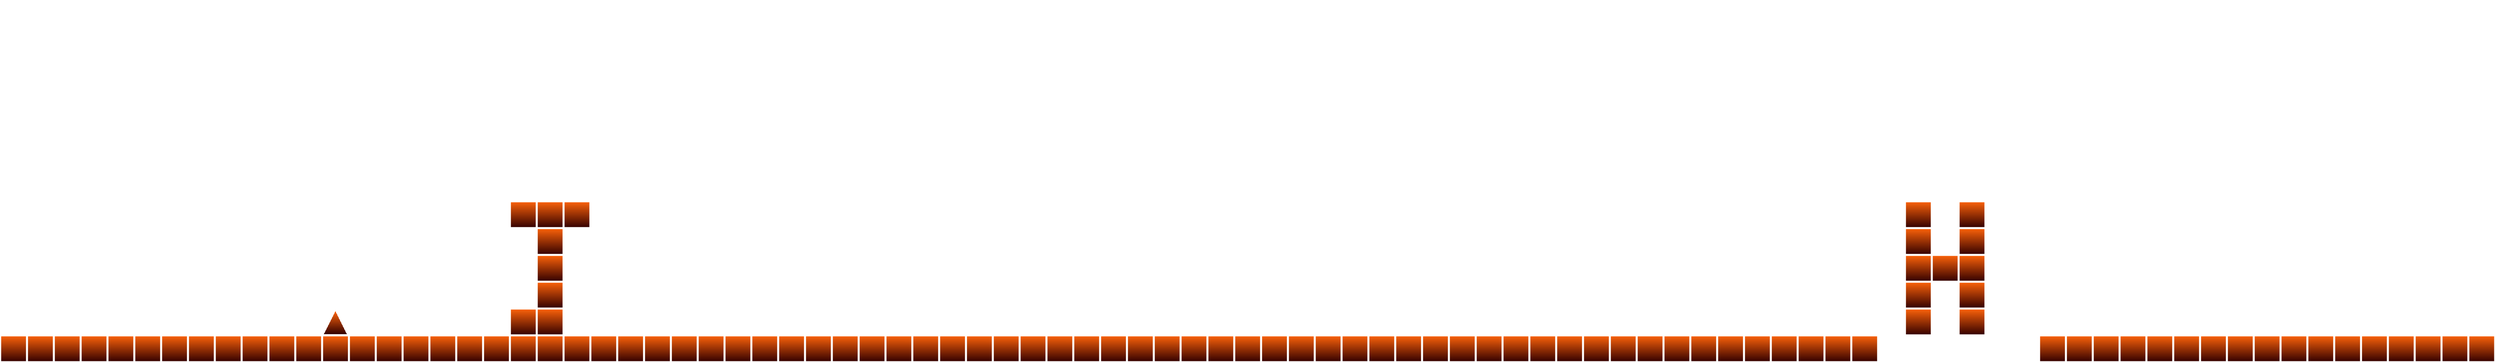
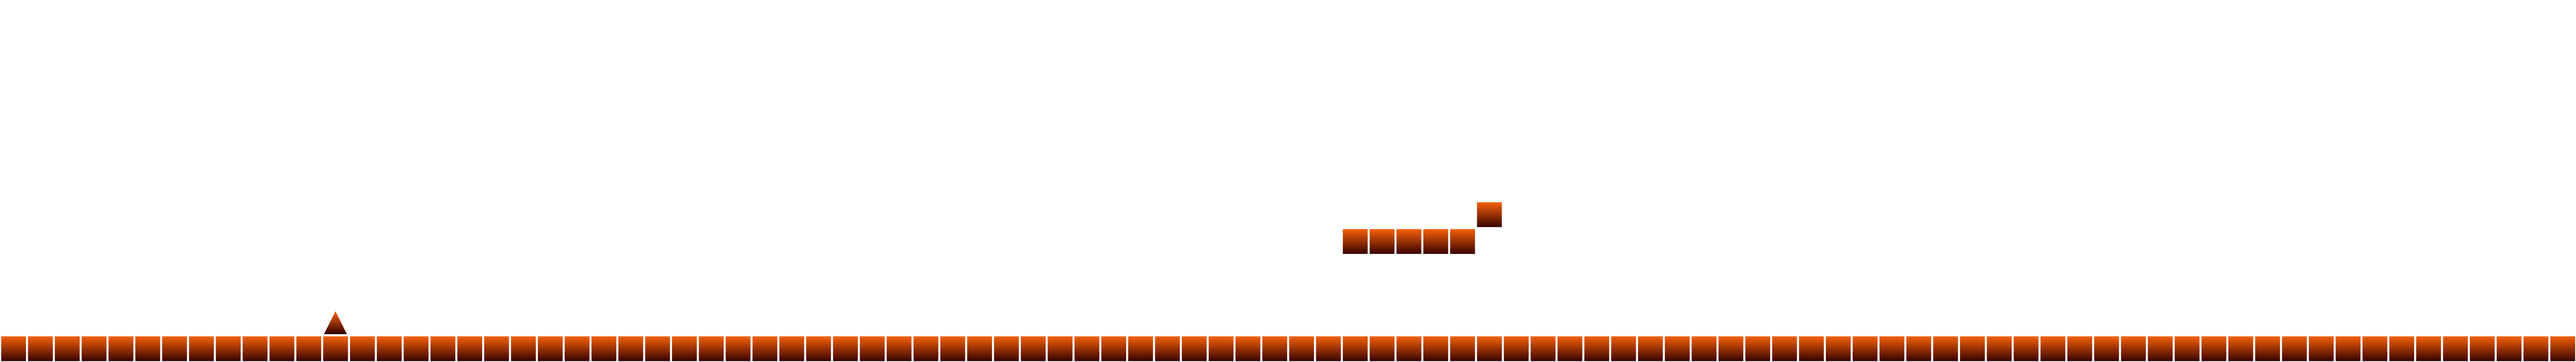
CompletionPane shows when the level is 100%

diff --git a/src/panes/LevelGameplayPane.java b/src/panes/LevelGameplayPane.java
@@ -37,6 +37,9 @@ public class LevelGameplayPane extends GraphicsPane {
     // Death menu
     private DeathMenuPane deathMenu;
     private boolean showingDeathScreen = false;
+    private CompletionPane completionMenu;
+    private boolean showingCompletionScreen = false;
+    boolean isProgressSaved = false;
 
     @Override
     public void showContent() {
@@ -49,6 +52,10 @@ public class LevelGameplayPane extends GraphicsPane {
             deathMenu.hide();
         }
         showingDeathScreen = false;
+        if (completionMenu != null && completionMenu.isVisible()) {
+            completionMenu.hide();
+        }
+        showingCompletionScreen = false;
         paused = false;
         contents.clear();
         mainScreen.clear();
@@ -77,6 +84,7 @@ public class LevelGameplayPane extends GraphicsPane {
         progressBarPercentage.setColor(Color.WHITE);
         this.mainScreen = mainApplication;
         this.deathMenu = new DeathMenuPane(mainApplication);
+        this.completionMenu = new CompletionPane(mainApplication);
     }
 
     public GameLevel getCurrentLevel() {
@@ -175,9 +183,12 @@ public class LevelGameplayPane extends GraphicsPane {
             player.tick(dtSeconds);
 
             // Check for death
-            if (player.isDead()) {
+            if (player.isDead() && !showingCompletionScreen) {
                 showDeathScreen();
                 return;
+            }
+            if (this.player.getXPos() > this.currentLevel.getGeometry()[0].length && !showingDeathScreen) {
+                showCompletion();
             }
         }
 
@@ -190,13 +201,30 @@ public class LevelGameplayPane extends GraphicsPane {
     private void showDeathScreen() {
         showingDeathScreen = true;
         paused = true;
-        
-        SaveData.save(new level.GameLevel[]{
-                level.GameLevel.TEST_LEVEL,
-                level.GameLevel.TEST_LEVEL_2
+
+        if (!isProgressSaved) {
+            SaveData.save(new level.GameLevel[]{
+                    level.GameLevel.TEST_LEVEL,
+                    level.GameLevel.TEST_LEVEL_2
             });
+            isProgressSaved = true;
+        }
         deathMenu.show();
     }
+
+    private void showCompletion() {
+        showingCompletionScreen = true;
+
+        if (!isProgressSaved) {
+            SaveData.save(new level.GameLevel[]{
+                    level.GameLevel.TEST_LEVEL,
+                    level.GameLevel.TEST_LEVEL_2
+            });
+            isProgressSaved = true;
+        }
+        completionMenu.show();
+    }
+
 
     /**
      * Restarts the current level.
@@ -204,6 +232,10 @@ public class LevelGameplayPane extends GraphicsPane {
     private void restartLevel() {
         deathMenu.hide();
         showingDeathScreen = false;
+
+        completionMenu.hide();
+        showingCompletionScreen = false;
+        isProgressSaved = false;
         paused = false;
 
         // Remove old sprite
@@ -229,12 +261,14 @@ public class LevelGameplayPane extends GraphicsPane {
     private void goToLevelSelect() {
         deathMenu.hide();
         showingDeathScreen = false;
+        completionMenu.hide();
+        showingCompletionScreen = false;
         paused = false;
         mainScreen.switchToLevelSelectScreen();
     }
 
     public void pauseUnpause() {
-        if (showingDeathScreen) return; // Don't toggle pause while death menu is open
+        if (showingDeathScreen || showingCompletionScreen) return; // Don't toggle pause while death menu is open
         if (!paused) {
             paused = true;
             pauseTimestamp = mainScreen.getDelta();
@@ -248,13 +282,13 @@ public class LevelGameplayPane extends GraphicsPane {
     @Override
     public void keyPressed(KeyEvent e) {
         if (e.getKeyCode() == KeyEvent.VK_ESCAPE) {
-            if (showingDeathScreen) {
+            if (showingDeathScreen || showingCompletionScreen) {
                 goToLevelSelect(); // ESC on death menu goes back to level select
             } else {
                 pauseUnpause();
             }
         } else if (e.getKeyCode() == KeyEvent.VK_SPACE || e.getKeyCode() == KeyEvent.VK_UP) {
-            if (showingDeathScreen) {
+            if (showingDeathScreen || showingCompletionScreen) {
                 restartLevel(); // Space/Up on death menu replays
             } else if (!paused && player != null) {
                 player.jump();
@@ -267,6 +301,16 @@ public class LevelGameplayPane extends GraphicsPane {
     public void mouseClicked(MouseEvent e) {
         if (showingDeathScreen && deathMenu.isVisible()) {
             String action = deathMenu.mouseClicked(e);
+            if ("replay".equals(action)) {
+                restartLevel();
+            } else if ("levelselect".equals(action)) {
+                goToLevelSelect();
+            }
+            return; // Consume click while death menu is open
+        }
+
+        if (showingCompletionScreen && completionMenu.isVisible()) {
+            String action = completionMenu.mouseClicked(e);
             if ("replay".equals(action)) {
                 restartLevel();
             } else if ("levelselect".equals(action)) {

diff --git a/src/panes/CompletionPane.java b/src/panes/CompletionPane.java
@@ -1,0 +1,153 @@
+package panes;
+
+import acm.graphics.GLabel;
+import acm.graphics.GObject;
+import acm.graphics.GRect;
+
+import java.awt.*;
+import java.awt.event.MouseEvent;
+import java.util.ArrayList;
+
+public class CompletionPane {
+
+    private MainApplication mainScreen;
+    private ArrayList<GObject> elements = new ArrayList<>();
+
+    // Buttons
+    private GRect replayButton;
+    private GLabel replayLabel;
+    private GRect levelSelectButton;
+    private GLabel levelSelectLabel;
+
+    private boolean visible = false;
+
+    public CompletionPane(MainApplication mainScreen) {
+        this.mainScreen = mainScreen;
+    }
+
+    public boolean isVisible() {
+        return visible;
+    }
+
+    /**
+     * Shows the death menu overlay on screen.
+     */
+    public void show() {
+        visible = true;
+
+        double screenW = mainScreen.getWidth();
+        double screenH = mainScreen.getHeight();
+
+        // Semi-transparent dark overlay
+        GRect overlay = new GRect(0, 0, screenW, screenH);
+        overlay.setFilled(true);
+        overlay.setFillColor(new Color(0, 0, 0, 150));
+//        addElement(overlay);
+
+        // Menu box
+        double boxW = 500;
+        double boxH = 380;
+        double boxX = (screenW - boxW) / 2;
+        double boxY = (screenH - boxH) / 2;
+
+        // Box shadow for depth
+        GRect boxShadow = new GRect(boxX + 5, boxY + 5, boxW, boxH);
+        boxShadow.setFilled(true);
+        boxShadow.setFillColor(new Color(0, 0, 0, 80));
+        addElement(boxShadow);
+
+        // Main box
+        GRect menuBox = new GRect(boxX, boxY, boxW, boxH);
+        menuBox.setFilled(true);
+        menuBox.setFillColor(new Color(0, 50, 120));
+        menuBox.setColor(Color.WHITE);
+        addElement(menuBox);
+
+        // "GAME OVER" title
+        GLabel title = new GLabel("LEVEL COMPLETE!");
+        title.setFont(new Font("Comic Sans MS", Font.BOLD, 52));
+        title.setColor(new Color(80, 255, 80));
+        title.setLocation((screenW - title.getWidth()) / 2, boxY + 75);
+        addElement(title);
+
+        // Subtitle
+        GLabel subtitle = new GLabel("Better luck next time!");
+        subtitle.setFont(new Font("Comic Sans MS", Font.PLAIN, 22));
+        subtitle.setColor(new Color(200, 220, 255));
+        subtitle.setLocation((screenW - subtitle.getWidth()) / 2, boxY + 115);
+        addElement(subtitle);
+
+        // --- Replay Button ---
+        double btnW = 320;
+        double btnH = 60;
+        double btnX = (screenW - btnW) / 2;
+        double replayY = boxY + 150;
+
+        replayButton = new GRect(btnX, replayY, btnW, btnH);
+        replayButton.setFilled(true);
+        replayButton.setFillColor(new Color(46, 204, 113));
+        replayButton.setColor(new Color(36, 170, 90));
+        addElement(replayButton);
+
+        replayLabel = new GLabel("REPLAY");
+        replayLabel.setFont(new Font("Comic Sans MS", Font.BOLD, 30));
+        replayLabel.setColor(Color.WHITE);
+        replayLabel.setLocation(
+                btnX + (btnW - replayLabel.getWidth()) / 2,
+                replayY + (btnH + replayLabel.getAscent()) / 2 - 5
+        );
+        addElement(replayLabel);
+
+        // --- Level Select Button ---
+        double levelSelectY = replayY + btnH + 25;
+
+        levelSelectButton = new GRect(btnX, levelSelectY, btnW, btnH);
+        levelSelectButton.setFilled(true);
+        levelSelectButton.setFillColor(new Color(0, 102, 204));
+        levelSelectButton.setColor(new Color(0, 75, 160));
+        addElement(levelSelectButton);
+
+        levelSelectLabel = new GLabel("LEVEL SELECT");
+        levelSelectLabel.setFont(new Font("Comic Sans MS", Font.BOLD, 30));
+        levelSelectLabel.setColor(Color.WHITE);
+        levelSelectLabel.setLocation(
+                btnX + (btnW - levelSelectLabel.getWidth()) / 2,
+                levelSelectY + (btnH + levelSelectLabel.getAscent()) / 2 - 5
+        );
+        addElement(levelSelectLabel);
+    }
+
+    /**
+     * Hides the death menu and removes all elements from screen.
+     */
+    public void hide() {
+        for (GObject item : elements) {
+            mainScreen.remove(item);
+        }
+        elements.clear();
+        visible = false;
+    }
+
+    /**
+     * Handles click events on the death menu.
+     * @return "replay" if replay was clicked, "levelselect" if level select was clicked, or null if neither
+     */
+    public String mouseClicked(MouseEvent e) {
+        if (!visible) return null;
+
+        GObject clicked = mainScreen.getElementAtLocation(e.getX(), e.getY());
+
+        if (clicked == replayButton || clicked == replayLabel) {
+            return "replay";
+        } else if (clicked == levelSelectButton || clicked == levelSelectLabel) {
+            return "levelselect";
+        }
+
+        return null; // Clicked on overlay but not a button
+    }
+
+    private void addElement(GObject obj) {
+        elements.add(obj);
+        mainScreen.add(obj);
+    }
+}

diff --git a/src/level/GameLevel.java b/src/level/GameLevel.java
@@ -98,17 +98,17 @@ public class GameLevel {
 
 
     public static final String[] TEST_GEOM_2 = {
-            "                                                                                             ",
-            "                                                                                             ",
-            "                                                                                             ",
-            "                                                                                             ",
-            "                                                                                             ",
-            "                   BBB                                                 B B                   ",
-            "                    B                                                  B B                   ",
-            "                    B                                                  BBB                   ",
-            "                    B                                                  B B                   ",
-            "            ^      BB                                                  B B                   ",
-            "BBBBBBBBBBBBBBBBBBBBBBBBBBBBBBBBBBBBBBBBBBBBBBBBBBBBBBBBBBBBBBBBBBBBBB      BBBBBBBBBBBBBBBBB",
+            "                                                                                                ",
+            "                                                                                                ",
+            "                                                                                                ",
+            "                                                                                                ",
+            "                                                                                                ",
+            "                                                       B                                        ",
+            "                                                  BBBBB                                         ",
+            "                                                                                                ",
+            "                                                                                                ",
+            "            ^                                                                                   ",
+            "BBBBBBBBBBBBBBBBBBBBBBBBBBBBBBBBBBBBBBBBBBBBBBBBBBBBBBBBBBBBBBBBBBBBBBBBBBBBBBBBBBBBBBBBBBBBBBBB",
     };
 
     public static final GameLevel TEST_LEVEL = new GameLevel(

diff --git a/src/level/Character.java b/src/level/Character.java
@@ -93,7 +93,7 @@ public class Character {
         if (dead) return;
 
         // --- Apply gravity ---
-        yVel -= GRAVITY * deltaSeconds;
+        yVel -= GRAVITY * deltaSeconds * (xPos >= geometry[0].length ? -0.7 : 1);
 
         // --- Calculate new position ---
         double newX = xPos + xVel * deltaSeconds;
